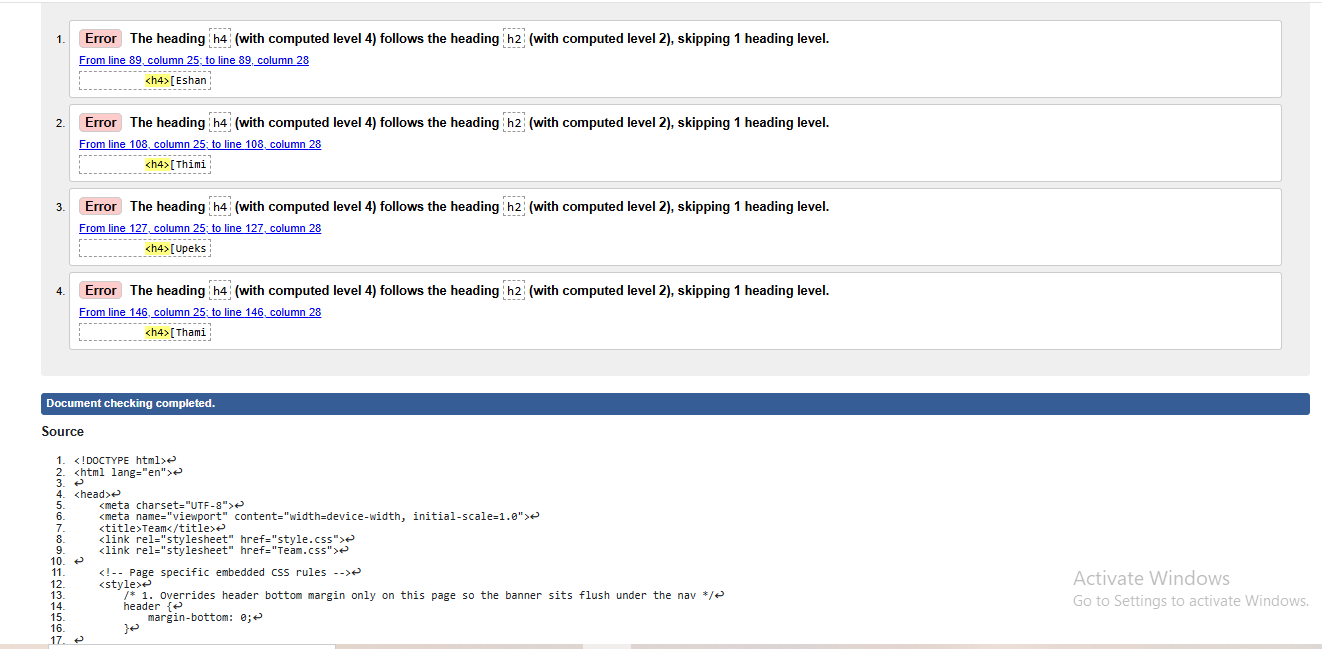
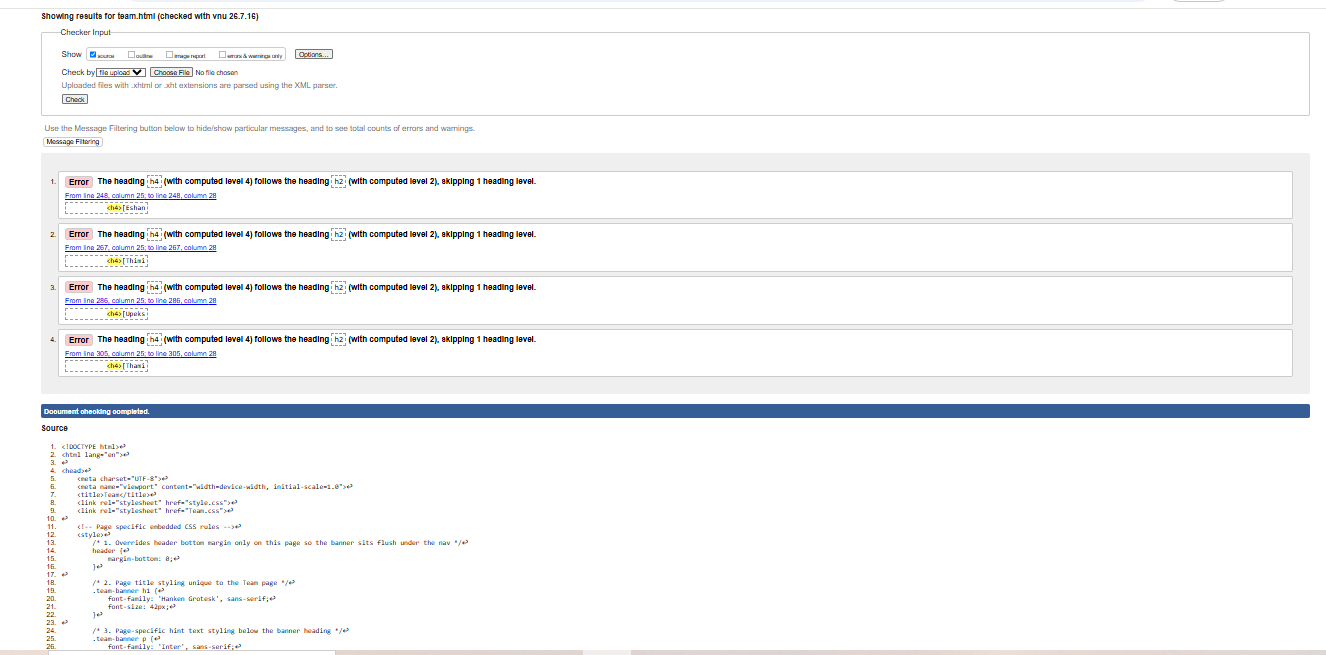
some fixes 11am

Changed region(s): [[0.031, 0.0, 0.9924, 1.0], [0.8064, 0.8629, 0.9304, 0.9553]]

diff --git a/profile.html b/profile.html
@@ -123,7 +123,7 @@
               You can skip questions and revisit them at any time
             </p>
 
-            <div class="profile-toolbar">
+            <div class="profile-toolbar" style="margin-top: 30px;">
                 <button id="btnStart" type="button" class="button">Start</button>
                 <button id="btnReset" type="button" class="button">Reset Profile</button>
                 <button id="btnRevisit1" type="button" class="button">Revisit Step 1</button>
@@ -192,8 +192,8 @@
             </div>
             <div class="footer-bottom-card">
                 <!-- Change href(target) accordingly -->
-                <a href="" class="footer-student-specific-link">Page Editor Report</a>
-                <a href="" class="footer-student-specific-link">W3C Validation Evidence</a>
+                <a href="pageEditor_ST4.html#profile" class="footer-student-specific-link">Page Editor Report</a>
+                <a href="validation_ST4.html#profile" class="footer-student-specific-link">W3C Validation Evidence</a>
             </div>
         </div>
     </footer>
@@ -201,13 +201,14 @@
     <script>
 
         // DO NOT TOUCH SCROLL BUTTON SCRIPT
+        //scroll button stuff
+
         // Loop through every link in .navbar a and check if href matches the current page URL and add the class called current-page
         document.querySelectorAll('.navbar a').forEach(link => {
             if (link.href === window.location.href) {
                 link.classList.add('current-page')
             }
         });
-        //scroll button stuff
 
         const scrollBtn = document.getElementById("scrollToTopBtn");
 
@@ -227,6 +228,203 @@
                 behavior: "smooth"
             });
         });
+    </script>
+
+    <script>
+    /* =====================================================================
+       USER PROFILE PAGE - JavaScript Logic (Student 4)
+       Coursework requirement: no HTML forms; data collected via prompt().
+       Demonstrates: objects, functions, conditional logic, DOM manipulation.
+       ===================================================================== */
+
+    // ---- 1. Data model -----------------------------------------------------
+    const steps = [
+      {
+        id: "basics",
+        title: "Step 1: Basics",
+        prompts: [
+          { key: "name", text: "What's your name?" },
+          { key: "role", text: "What's your role or field of study? (e.g. student, engineer, designer)" },
+          { key: "location", text: "Which city or area are you based in?" }
+        ]
+      },
+      {
+        id: "interests",
+        title: "Step 2: Interests",
+        prompts: [
+          { key: "focus", text: "Which area of Industry, Innovation & Infrastructure interests you most? (e.g. clean tech, digital access, sustainable transport, smart cities)" },
+          { key: "experience", text: "Have you used or built any tech/innovation project before? Briefly describe, or say 'no'." },
+          { key: "time", text: "How much time could you realistically give to an innovation project per week? (e.g. 1hr, 3hrs, 5+hrs)" }
+        ]
+      },
+      {
+        id: "actions",
+        title: "Step 3: Actions",
+        prompts: [
+          { key: "commitment", text: "Pick one action you could commit to (e.g. support a local infrastructure improvement, learn a sustainable tech skill, volunteer for STEM outreach)." },
+          { key: "problem", text: "What's one infrastructure or innovation problem you'd like to help solve?" },
+          { key: "tips", text: "Would you like tips on how to get started with your chosen action? (yes/no)" }
+        ]
+      }
+    ];
+
+    let profileData = {
+      basics: {},
+      interests: {},
+      actions: {}
+    };
+
+    let stepStarted = { basics: false, interests: false, actions: false };
+
+    const TOTAL_PROMPTS = steps.reduce((sum, step) => sum + step.prompts.length, 0); // 9
+
+    // ---- 2. Core functions --------------------------------------------------
+
+    function runStep(stepIndex, onlyMissing) {
+      const step = steps[stepIndex];
+      stepStarted[step.id] = true;
+
+      step.prompts.forEach(function (p) {
+        const alreadyAnswered = profileData[step.id][p.key] !== undefined &&
+                                profileData[step.id][p.key] !== null &&
+                                profileData[step.id][p.key] !== "";
+
+        if (onlyMissing && alreadyAnswered) {
+          return; // skip prompts we already have an answer for
+        }
+
+        const defaultValue = alreadyAnswered ? profileData[step.id][p.key] : "";
+        const answer = window.prompt(p.text + "\n(Leave blank or press Cancel to skip)", defaultValue);
+
+        if (answer === null || answer.trim() === "") {
+          profileData[step.id][p.key] = null; // explicitly marked as skipped
+        } else {
+          profileData[step.id][p.key] = answer.trim();
+        }
+      });
+
+      updateProgress();
+      renderProfile();
+    }
+
+    function startOrContinueProfile() {
+      for (let i = 0; i < steps.length; i++) {
+        const proceed = window.confirm(
+          "Ready for " + steps[i].title + "? Click OK to answer, Cancel to skip this whole step for now."
+        );
+        if (proceed) {
+          runStep(i, false);
+        } else {
+          stepStarted[steps[i].id] = true;
+          renderProfile();
+        }
+      }
+      updateProgress();
+      checkCompletion();
+    }
+
+    function countAnswered() {
+      let count = 0;
+      steps.forEach(function (step) {
+        step.prompts.forEach(function (p) {
+          const val = profileData[step.id][p.key];
+          if (val !== undefined && val !== null && val !== "") {
+            count++;
+          }
+        });
+      });
+      return count;
+    }
+
+    function updateProgress() {
+      const answered = countAnswered();
+      const percent = Math.round((answered / TOTAL_PROMPTS) * 100);
+
+      document.getElementById("progressBar").style.width = percent + "%";
+      document.getElementById("progressLabel").textContent = "Completion: " + percent + "%";
+
+      const completedSteps = steps.filter(function (step) {
+        return step.prompts.every(function (p) {
+          const val = profileData[step.id][p.key];
+          return val !== undefined && val !== null && val !== "";
+        });
+      }).length;
+
+      document.getElementById("statusLine").textContent =
+        "Status: " +completedSteps + " of " + steps.length + " steps fully completed).";
+    }
+
+    function renderProfile() {
+      const output = document.getElementById("profileOutput");
+      output.innerHTML = "";
+
+      steps.forEach(function (step) {
+        if (!stepStarted[step.id]) {
+          return;
+        }
+
+        const card = document.createElement("div");
+        card.className = "card profile-step-card revealed";
+
+        const heading = document.createElement("h3");
+        heading.textContent = step.title;
+        card.appendChild(heading);
+
+        const list = document.createElement("dl");
+        let hasAnyAnswer = false;
+
+        step.prompts.forEach(function (p) {
+          const val = profileData[step.id][p.key];
+          if (val !== undefined && val !== null && val !== "") {
+            hasAnyAnswer = true;
+            const dt = document.createElement("dt");
+            dt.textContent = p.key;
+            const dd = document.createElement("dd");
+            dd.textContent = val;
+            list.appendChild(dt);
+            list.appendChild(dd);
+          }
+        });
+
+        if (!hasAnyAnswer) {
+          const emptyMsg = document.createElement("p");
+          emptyMsg.textContent = "No details provided yet for this step.";
+          card.appendChild(emptyMsg);
+        } else {
+          card.appendChild(list);
+        }
+
+        output.appendChild(card);
+      });
+
+      checkCompletion();
+    }
+
+    function checkCompletion() {
+      const box = document.getElementById("confirmationBox");
+      box.style.display = (countAnswered() === TOTAL_PROMPTS) ? "block" : "none";
+    }
+
+    function resetProfile() {
+      const sure = window.confirm("This will clear all profile answers. Continue?");
+      if (!sure) return;
+
+      profileData = { basics: {}, interests: {}, actions: {} };
+      stepStarted = { basics: false, interests: false, actions: false };
+      updateProgress();
+      renderProfile();
+    }
+
+    // ---- 3. Wire up buttons (event listeners) -------------------------------
+    document.getElementById("btnStart").addEventListener("click", startOrContinueProfile);
+    document.getElementById("btnReset").addEventListener("click", resetProfile);
+    document.getElementById("btnRevisit1").addEventListener("click", function () { runStep(0, true); });
+    document.getElementById("btnRevisit2").addEventListener("click", function () { runStep(1, true); });
+    document.getElementById("btnRevisit3").addEventListener("click", function () { runStep(2, true); });
+
+    // Initial render on page load (shows empty state / 0%)
+    updateProgress();
+    renderProfile();
     </script>
 </body>
 

diff --git a/validation_ST3.html b/validation_ST3.html
@@ -93,7 +93,7 @@
                 <section class="card" id="feedback">
                     <h2>Feedback &amp; Program Directory Page validation report</h2>
                     <p>The Feedback & Program Directory page passed the W3C HTML validation on the first attempt. No errors or warnings were found, so no changes were required. The page follows valid HTML5 structure and accessibility guidelines.</p>
-                    <img src="../images/feedback/validation-1.png" alt="">
+                    <img src="images/feedback/validation-1.png" alt="">
 
                     <h3>Back to Page Editor page</h3>
                     <p><a href="pageEditor_ST3.html#feedback">Feedback Page section in the Page Editor</a></p>
@@ -109,7 +109,7 @@ Headings should follow a logical order (h1 → h2 → h3 → h4). Skipping headi
 
 How it was resolved:
 The h4 headings were changed to h3 (or an appropriate h3 heading was added before the h4). This created a proper heading hierarchy and removed the validation error.</p>
-                    <img src="../images/feedback/validation-2.png" alt="">
+                    <img src="images/feedback/validation-2.png" alt="">
 
                     <h3>Back to Page Editor page</h3>
                     <p><a href="pageEditor_ST3.html#team">Team Page section in the Page Editor</a></p>
@@ -120,7 +120,7 @@ The h4 headings were changed to h3 (or an appropriate h3 heading was added befor
                     <p>[Describe any validation issues you encountered here, e.g. duplicate section IDs used by
                         the internal navigation links, an unclosed tag, or a table missing a scope attribute on
                         its header cells, and explain how each was resolved.]</p>
-                    <img src="../images/feedback/validation-3.png" alt="">
+                    <img src="images/feedback/validation-3.png" alt="">
 
                     <h3>Back to Page Editor page</h3>
                     <p><a href="pageEditor_ST3.html#content">Content Page section in the Page Editor</a></p>